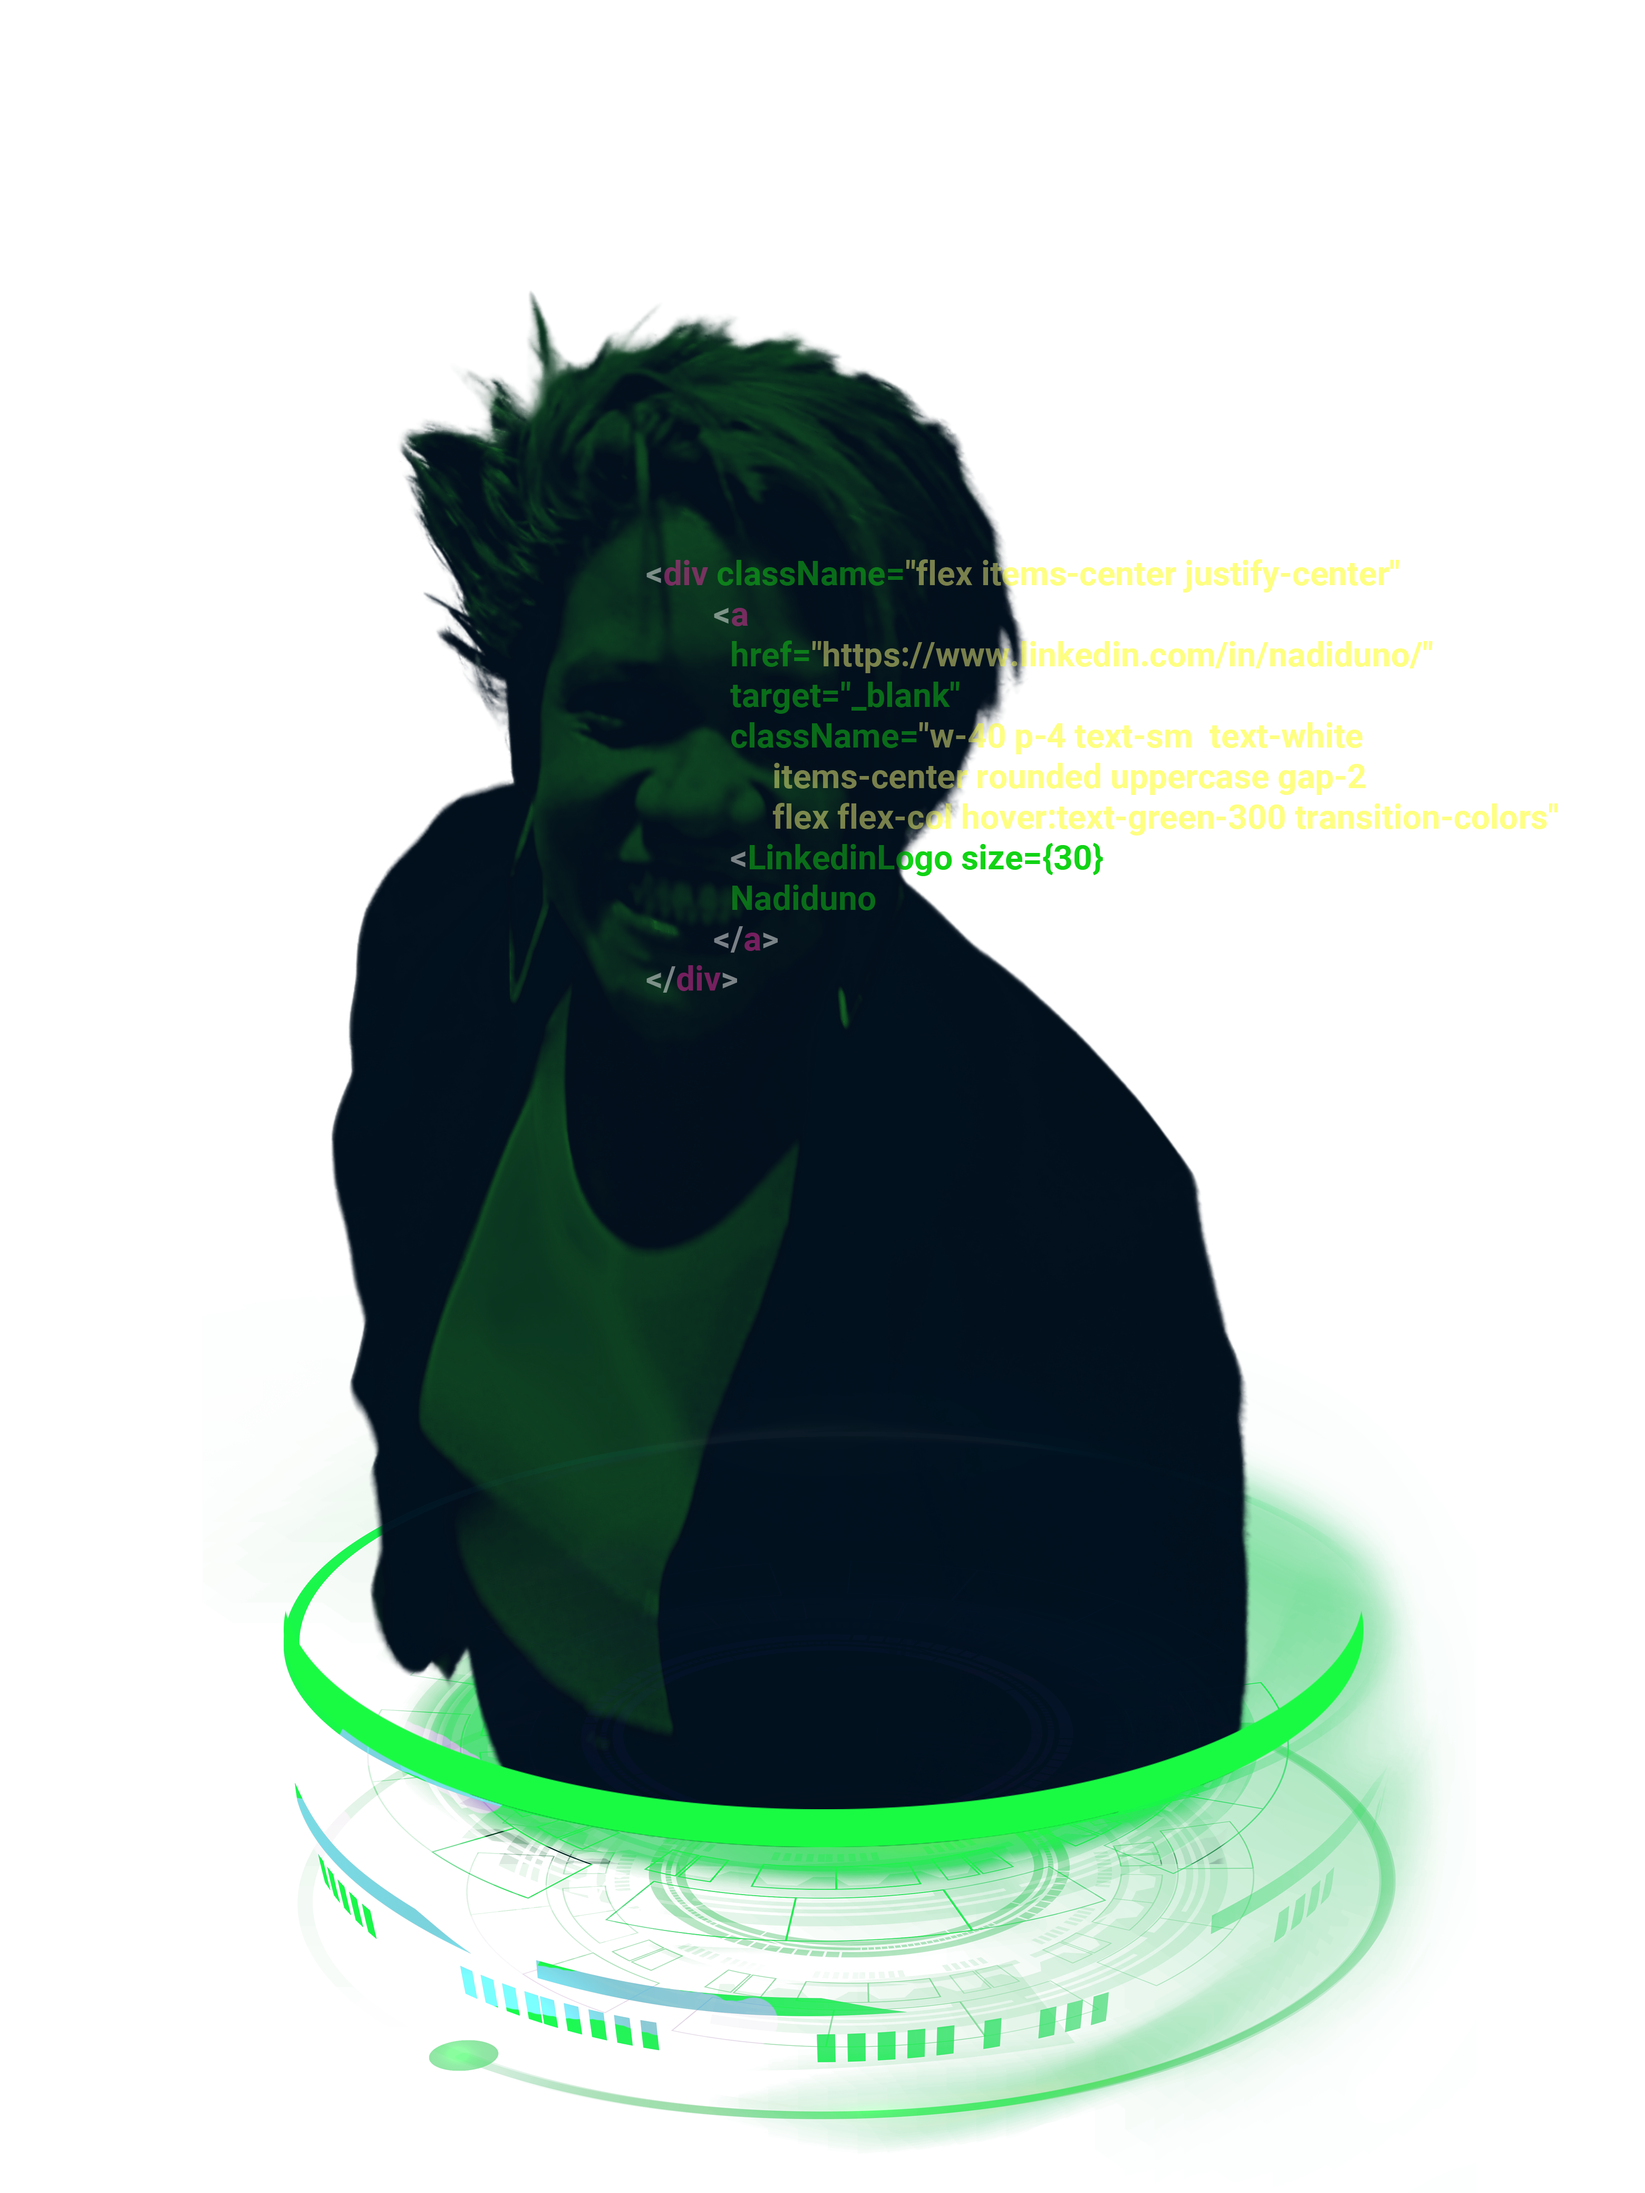
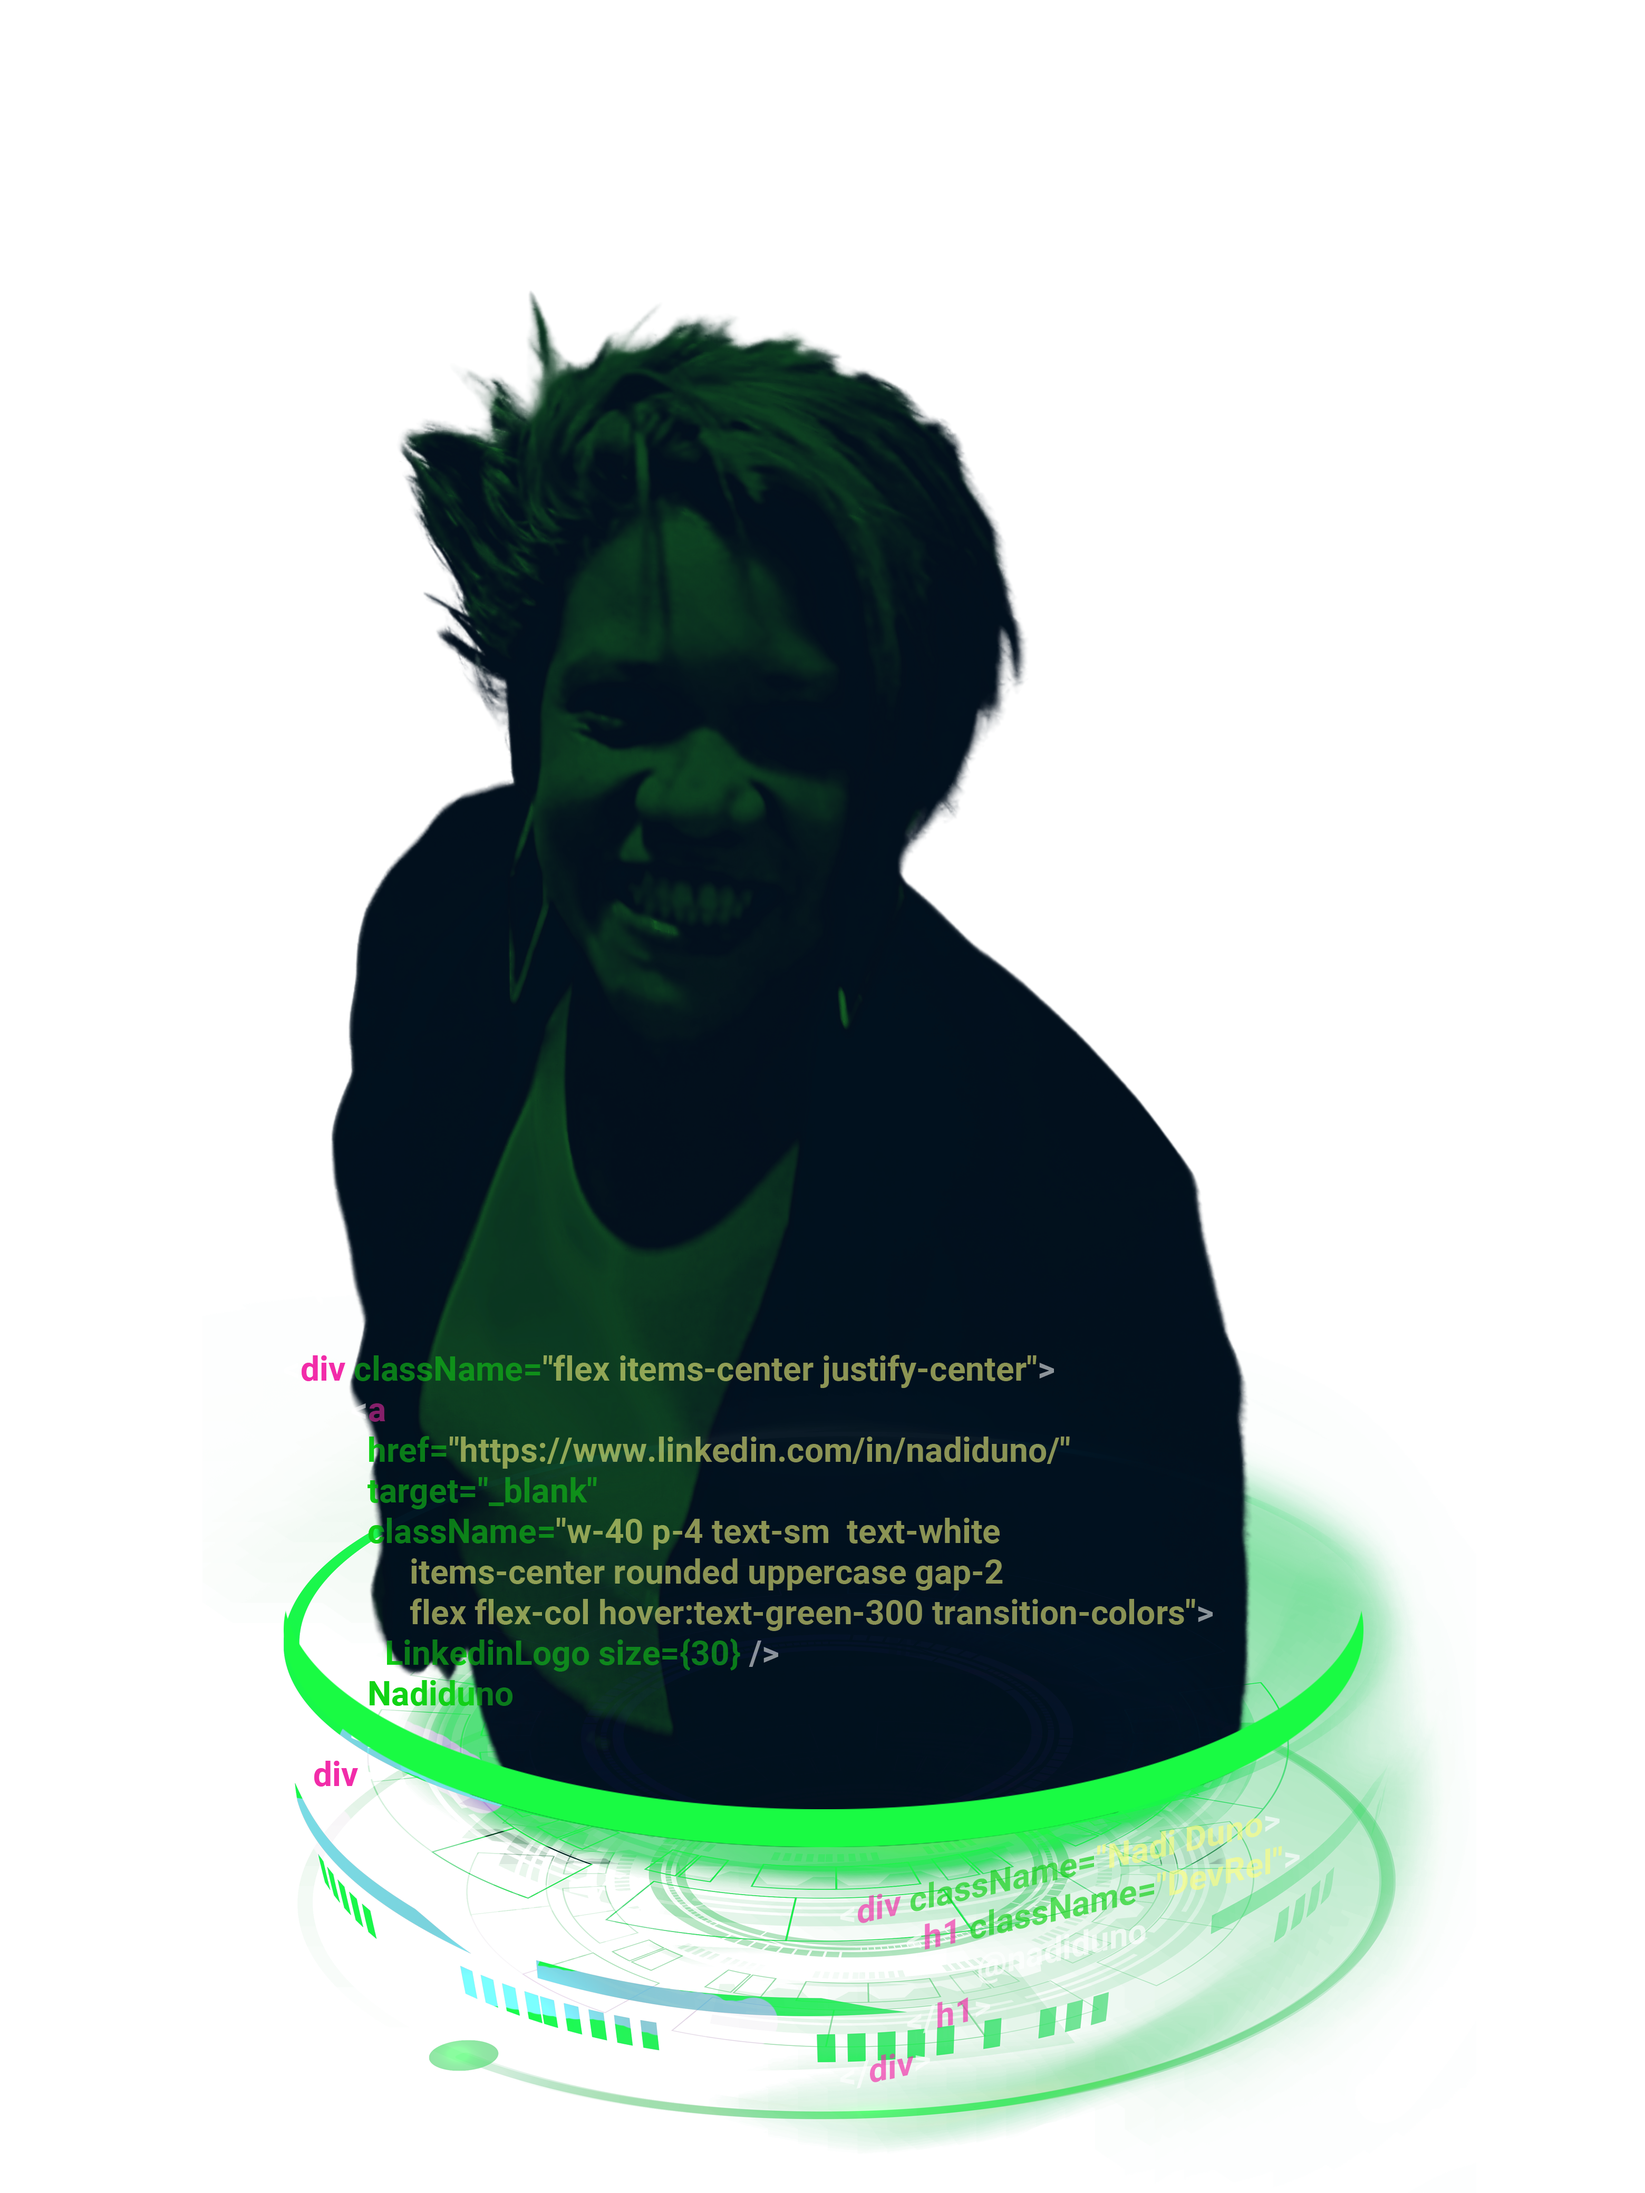
portfolioNadiDev

diff --git a/styles.css b/styles.css
@@ -5,10 +5,10 @@
 }
 html {
   --primary-color:rgba(0, 0, 0, 0.96);
-  --secundary-color: yellow; 
-  --third-color:#FFEC89;
+  --secundary-color:#4509A8; 
+  /* --third-color:#FFEC89; */
   --text-color:#fff;
-  --subtext-color:rgba(0, 0, 0, 0.8);
+  --subtext-color:#19fb43;
   --subtext2-color:rgba(0, 0, 0, 0.4);
 }
 body {
@@ -16,75 +16,102 @@ body {
   color: var(--text-color);
   font-family: 'Roboto', sans-serif;
   background-color:var(--primary-color);
-  /* background: url(./src/nadiCode.png); */
-  background-size:cover;
   text-align: center;
   display:block;
   align-items:center;
   justify-content:center;
-  gap:1rem;
+  gap:.5rem;
 }
 .name{
   font-family: 'Montez', cursive;
-  font-style: bold;
-  font-weight: 400;
-  font-size: 8rem;
+  font-weight: 100;
+  font-size: 6rem;
+}
+.subtitle{
+  font-weight: 100;
+  font-size: 2rem;
 }
 .container{
   font-style: bold;
   font-weight: 400;
   font-size: 16px;
   display:flex;
-  justify-content:betwen;
+  justify-content:space-between;
   align-content: center;
+  /* flex-wrap:wrap; */
+  padding:0 2rem;
 }
 .avatar{
   width:20rem;
-  margin-top:-3rem;
+  margin-top:-1.5rem;
+  position:relative;
+  z-index:3;
 }
-.foll{
-  display:flex;
+.devrel{
+  margin-top:10rem;
+}
+.coder{
+  margin-top:10rem;
+} 
+strong{
+  color:var(--subtext-color);
+  opacity:.8;
+}
+.title{
+  font-style: bold;
+  font-weight: 400;
+  font-size: 5rem;
+}
+.subtitel3{
+  opacity:0.1;
+  position:absolute;
+  margin-left:-10rem;
+  margin-top:8rem;
+  z-index:1;
+  font-weight: 100;
+  font-size:1.5rem;
+}
+.details{
+  display:block;
   justify-content:center;
-  gap:3rem;
-  padding-top:1.5rem;
-}
-.followers{
-  color:var(--secundary-color);
-  font-style: normal;
-  font-weight: 700;
-  font-size: 7rem;
-  display:flex;
-  justify-content:center;
-}
-.following{
-  color:var(--secundary-color);
-  font-style: normal;
-  font-weight: 700;
-  font-size: 7rem;
-  display:flex;
-  justify-content:center;
-}
-.footer{
-  margin-top:3rem;
-  padding:1rem;
-  background-color:var(--text-color);
-  color:var(--subtext2-color);
+  align-content: center;
 }
 .bio{
-  margin-top:2rem;
-  color:var(--third-color);
+  width:full;
+  padding:0 18rem;
+  padding-bottom:1rem;
+  display:block;
+  justify-content:center;
+  align-content: center;
+  border-color:red;
 }
-.api{
-  color:var(--subtext-color);
-  opacity:1;
-}
-.received_events_url{
-  opacity: 0.9;
-  padding-top:2rem;
+.github{
+  opacity:0.7;
+  color:var(--text-color);
   cursor: pointer;
   text-decoration:none;
 }
-.received_events_url:hover {
-  opacity: 1;
+.github:hover {
+  opacity:1;
+  cursor: pointer;
+}
+footer{
+  background-color:var(--text-color);
+  color:var(--secundary-color);
+  display:flex;
+  justify-content:space-evenly;
+  align-content: center;
+  padding:1rem;
+}
+.linkedin{
+  opacity:1;
+  font-style: bold;
+  font-weight:400;
+  font-size:1rem;
+  cursor: pointer;
+  text-decoration:none;
+}
+.linkedin:hover {
+  opacity:.8;
   cursor: pointer;
 }

diff --git a/index.html b/index.html
@@ -2,7 +2,7 @@
 <html lang="en">
 <head>
   <meta charset="UTF-8">
-  <link rel="icon" type="image/svg+xml" href="./src/portfolio.png
+  <link rel="icon" type="image/svg+xml" href="./src/portfolio.png"/>
   <meta http-equiv="X-UA-Compatible" content="IE=edge">
   <meta name="viewport" content="width=device-width, initial-scale=1.0">
   <link rel="preconnect" href="https://fonts.googleapis.com">
@@ -14,50 +14,43 @@
 </head>
 <body>
   <div id="app">
-    <p class="name">I´m Nadi.</p>
-    <span class="subtitle">a web designer.</span>
+    <p class="name">I´m Nadi</p>
+    <span class="subtitle">a web designer</span>
     <div class="container">
       <div class="devrel">
         <strong class="title">devRel</strong>
-        <span class="subtitle"></span>
+        <span class="subtitle2">Connecting people through education and technology</span>
       </div>
       <div class="avatar">
         <img class="avatar" src="./src/nadiCode.png" alt="Foto de Nadiveth Duno">
-        <span class="subtitel2">CSS HTML font-weight:700 color:black background-color:red opacity: 0.9</span>
+        <span class="subtitel3">CSS HTML &nbsp; &nbsp;JavaScript &nbsp;&nbsp;&nbsp;font-weight:Ps91 color:black background-color:red opacity:&nbsp;&nbsp;23</span>
       </div>
       <div class="coder">
-        <strong class="title">&lt;coder&gt;</strong>
-        <span class="subtitle"></span>
+        <strong class="title">&lt;coder/&gt;</strong>
+        <span class="subtitle2">Developing website using usability metrics</span>
       </div>
     </div>
     <div class="details">
-      Com &nbsp
-      <span class="public_repos"></span>
-      repositorios no github 
-    </div>
-    <div class="foll">
-      <div>
-        <strong class="followers"></strong>
-        followers
-      </div>
-      <a href="https://github.com/nadiduno" target="_blank">
-        <img src="./src/follow.png" alt="Follower">
+      <p class="bio"></p> 
+      <a 
+        class="github"
+        href="https://github.com/nadiduno" 
+        target="_blank">
+        Check my  repositories  on github
+        <i class="fa-brands fa-github" alt="Logo github"></i>
+        : <span class="public_repos"></span>
       </a>
-      <div>
-        <strong class="following"></strong>
-        following
-      </div>
     </div>
-    <p class="bio"></p>
   </div>
-  <script type="module" src="/script.js"></script>
+  <script type="module" src="./script.js"></script>
 </body>
-<footer class="footer">
-  Informação recebida da
-  <span class="api">API</span>
-  <a href="https://api.github.com/users/nadiduno" target="_blank">
-    <strong class="received_events_url"></strong>
+<footer>
+  <a 
+    class="linkedin"
+    href="https://www.linkedin.com/in/nadiduno/"
+    target="_blank">
+    <i class="fa-brands fa-linkedin"></i>
+    by Nadi Duno | &copy; 2022
   </a>
 </footer>
-</body>
 </html>

diff --git a/script.js b/script.js
@@ -11,20 +11,8 @@ async function bucarDados(){
 }
 bucarDados().then(body => {
   // console.log(body);
-  var avatar_url=body.avatar_url;
-  var name=body.name;
   var bio=body.bio; 
-  var created_at=body.created_at; 
   var public_repos=body.public_repos; 
-  var followers=body.followers; 
-  var following=body.following; 
-  var received_events_url=body.received_events_url; 
-  document.querySelector(".avatar_url").src = avatar_url;
-  document.querySelector(".name").innerHTML = name;
   document.querySelector(".bio").innerHTML = bio;
-  document.querySelector(".created_at").innerHTML = created_at;
   document.querySelector(".public_repos").innerHTML = public_repos;
-  document.querySelector(".followers").innerHTML = followers;
-  document.querySelector(".following").innerHTML = following;
-  document.querySelector(".received_events_url").innerHTML = received_events_url;
 });
